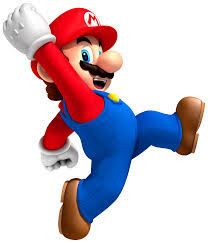
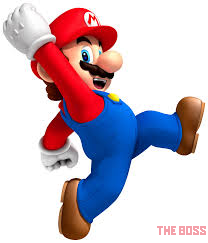
all comments taken care of

Changed region(s): [[0.75, 0.9218, 1.0, 0.9794]]

diff --git a/scripts/watermark/addwatermark.py b/scripts/watermark/addwatermark.py
@@ -1,4 +1,5 @@
 import argparse
+import os
 from PIL import Image, ImageEnhance
 
 OPACITY = 0.5
@@ -35,7 +36,7 @@ def watermark(im, mark, position, opacity=1):
     if position == 'scale':
         ratio = mark.size[0]/mark.size[1]
         if im.size[0] < im.size[1]:
-            w =int(im.size[0]*0.025)
+            w =int(im.size[0]*0.25)
             h= w/ratio
         else:
             h = int(im.size[1] *0.25)
@@ -46,7 +47,7 @@ def watermark(im, mark, position, opacity=1):
         layer.paste(mark, position)
     return Image.composite(layer, im, layer)
 
-def test():
+def main():
     parser = argparse.ArgumentParser()
     parser.add_argument("-im",help = "the image that you wish to add the watermark to" ,type =str)
     parser.add_argument("-mark",help = "the watermark image" ,type=str)
@@ -59,7 +60,6 @@ def test():
         im3 = Image.open('mario.jpg')
 
         mark = Image.open('watermark.png')
-        print "here"
         watermark(im, mark, 'scale', OPACITY).show()
         watermark(im2, mark, 'scale', OPACITY).show()
         watermark(im3, mark, 'scale', OPACITY).show()
@@ -70,7 +70,7 @@ def test():
     else:
         im = Image.open(args.im)
         mark = Image.open(args.mark)
-        watermark(im, mark, 'scale', OPACITY).save(str(im),"PNG")
+        watermark(im, mark, 'scale', OPACITY).save(str(os.path.splitext(args.im)[0])+"_mark","PNG")
 
-
-test()
+if __name__ == '__main__':
+    main()
